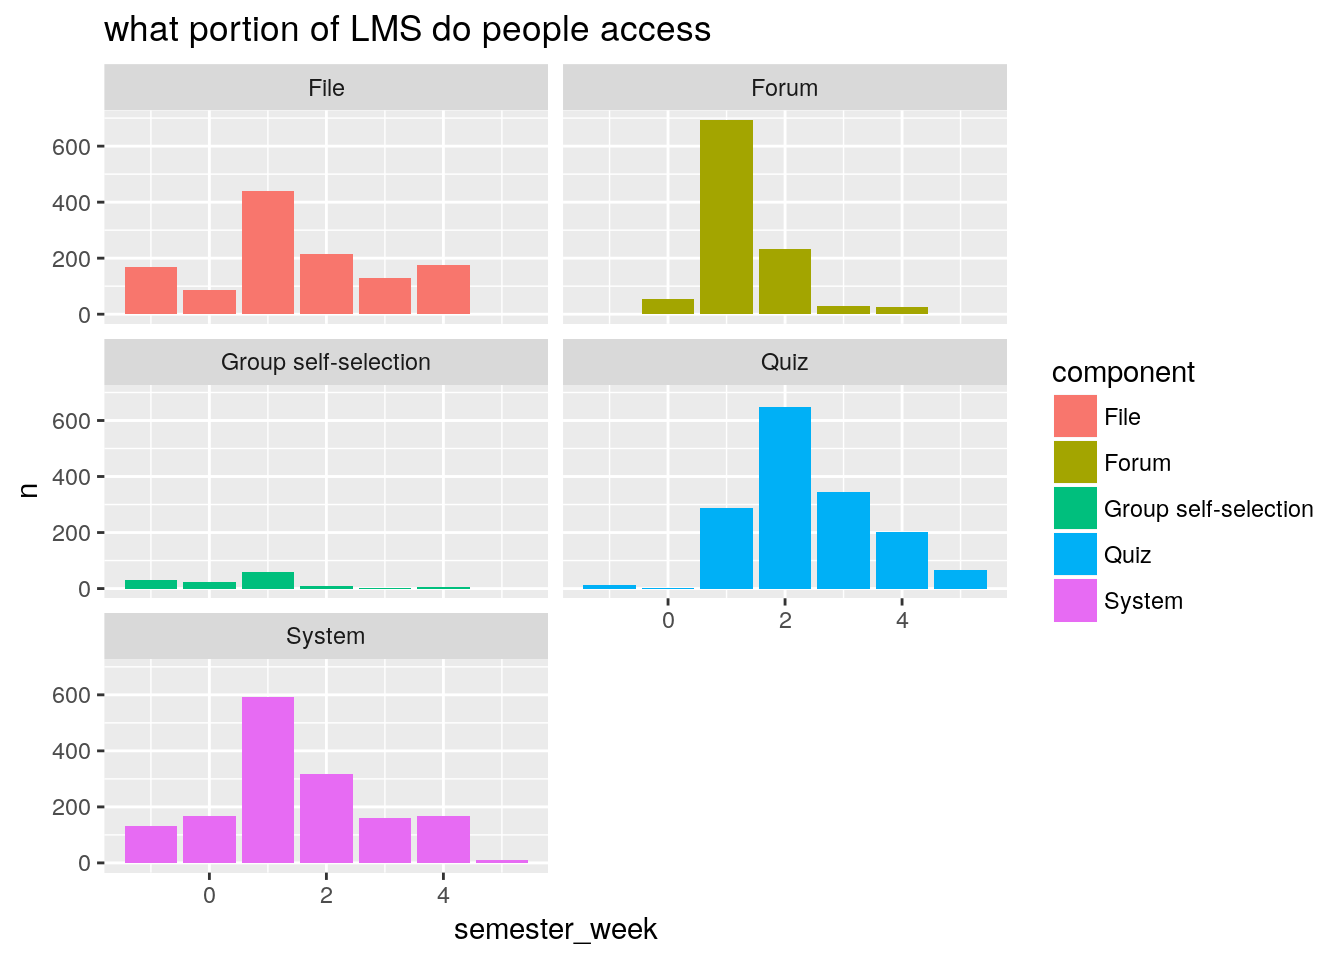
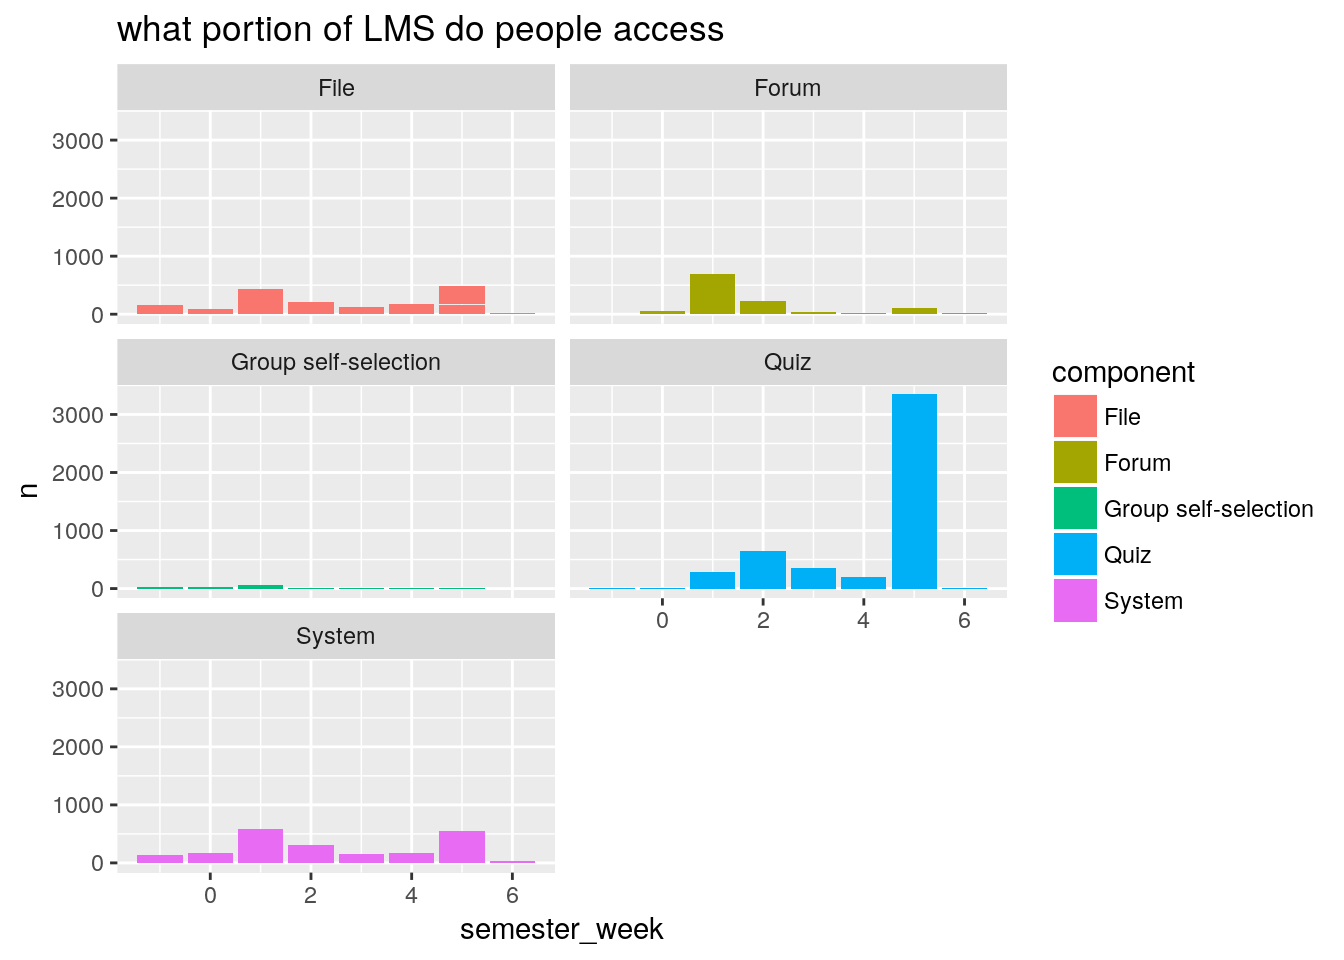
Build site.

diff --git a/docs/processHSILogs.html b/docs/processHSILogs.html
@@ -361,7 +361,7 @@ div.section {
 </details>
 </li>
 <li>
-<p><details> <summary> <strong style="color:blue;">✔</strong> <strong>Repository version:</strong> <a href="https://github.com/dewoller/LMS_reports/tree/acddaf91cfbbc81dd0065a045592140af1a6d537" target="_blank">acddaf9</a> </summary></p>
+<p><details> <summary> <strong style="color:blue;">✔</strong> <strong>Repository version:</strong> <a href="https://github.com/dewoller/LMS_reports/tree/413572e986cae5353afc9c51a23b60a57b51ab13" target="_blank">413572e</a> </summary></p>
 Great! You are using Git for version control. Tracking code development and connecting the code version to the results is critical for reproducibility. The version displayed above was the version of the Git repository at the time these results were generated. <br><br> Note that you need to be careful to ensure that all relevant files for the analysis have been committed to Git prior to generating the results (you can use <code>wflow_publish</code> or <code>wflow_git_commit</code>). workflowr only checks the R Markdown file, but you know if there are other scripts or data files that it depends on. Below is the status of the Git repository when the results were generated:
 <pre><code>
 Ignored files:
@@ -397,6 +397,23 @@ Message
 </tr>
 </thead>
 <tbody>
+<tr>
+<td style="text-align:left;">
+html
+</td>
+<td style="text-align:left;">
+<a href="https://cdn.rawgit.com/dewoller/LMS_reports/ca223f78008e659e90b57aa17dff73d5cb15cc4d/docs/processHSILogs.html" target="_blank">ca223f7</a>
+</td>
+<td style="text-align:left;">
+Dennis Wollersheim
+</td>
+<td style="text-align:left;">
+2018-09-03
+</td>
+<td style="text-align:left;">
+Build site.
+</td>
+</tr>
 <tr>
 <td style="text-align:left;">
 html
@@ -623,9 +640,9 @@ first IHB trial
 </ul>
 <p></details></p>
 <hr />
-<div id="marks-for-the-class-logs_2018-him4ihsbu-2him5hsibu-2_20180827-1232.csv" class="section level1">
-<h1>Marks for the class logs_2018-HIM4IHS(BU-2)HIM5HSI(BU-2)_20180827-1232.csv</h1>
-<p>For the period : 2018-07-16 08:01:00, 2018-08-27 12:10:00</p>
+<div id="marks-for-the-class-logs_2018-him4ihsbu-2him5hsibu-2_20180903-1630.csv" class="section level1">
+<h1>Marks for the class logs_2018-HIM4IHS(BU-2)HIM5HSI(BU-2)_20180903-1630.csv</h1>
+<p>For the period : 2018-07-16 08:01:00, 2018-09-03 16:20:00</p>
 <div id="overall-lms-participation-by-student" class="section level2">
 <h2>Overall LMS participation by student</h2>
 <p><img src="figure/processHSILogs.Rmd/introduction-1.png" width="672" style="display: block; margin: auto;" /></p>
